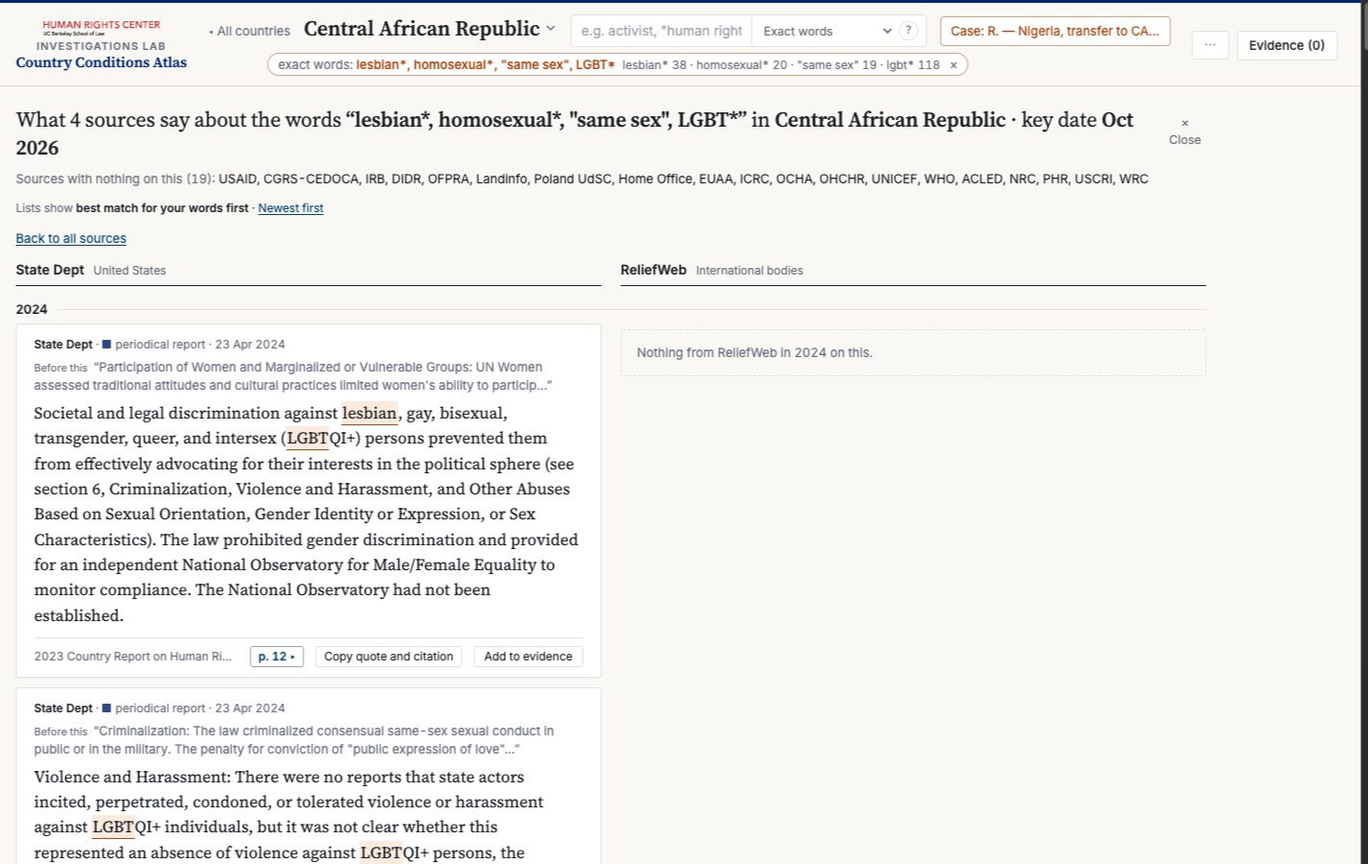
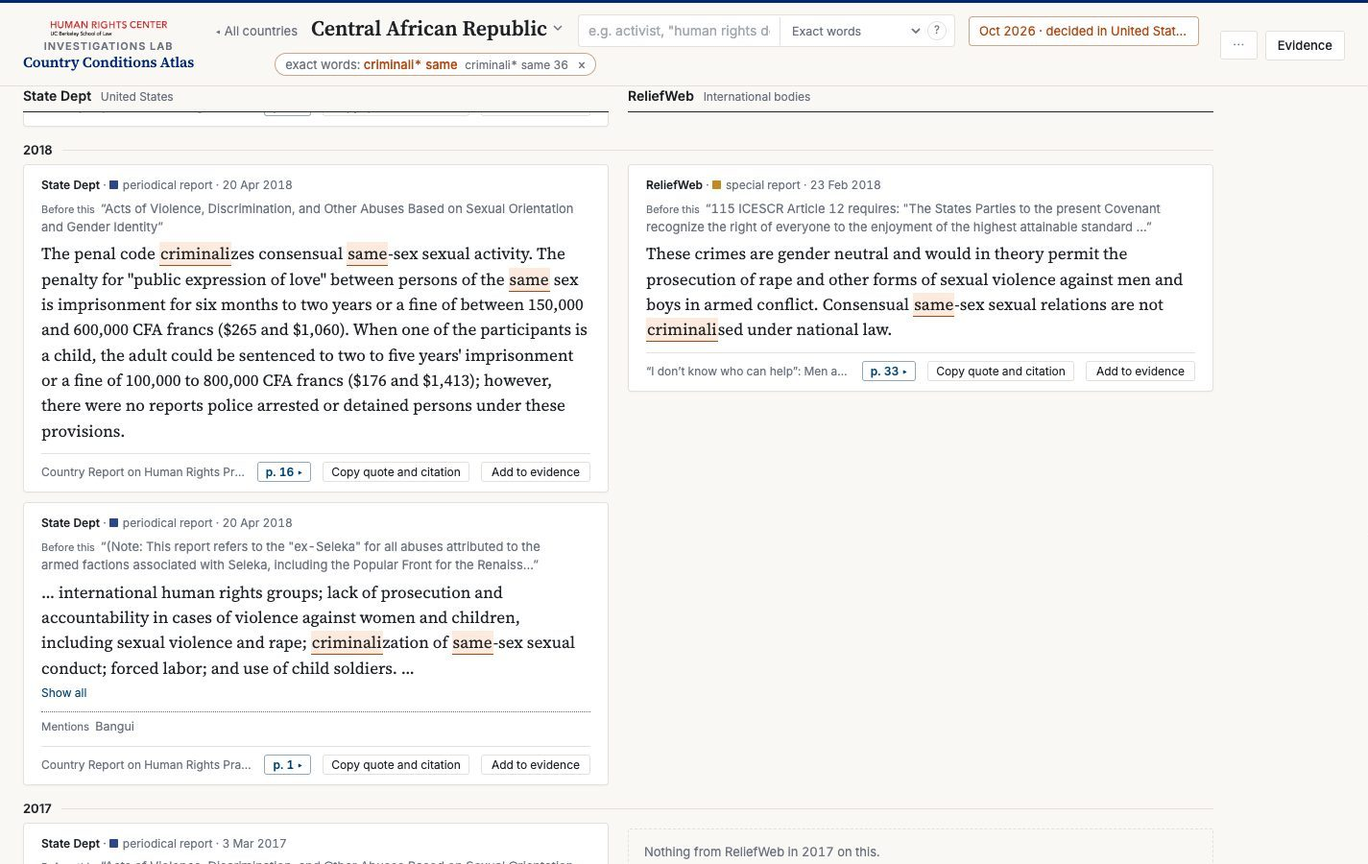
Guide: side-by-side step now shows the 2018 disagreement; text rewritten in Simplified Technical English
Claude-Session: https://claude.ai/code/session_015QqkhL8CB7sa7iWybLvh2n

diff --git a/guide.html b/guide.html
@@ -23,220 +23,225 @@
   </header>
 
   <div class="prose">
-    <p class="lead">This guide follows one case from the first search to a Word file of evidence. The client is made up. The reports are real. Every picture is the atlas as it looked on 18 November 2026.</p>
+    <p class="lead">This guide shows how to use the atlas for one case. The case starts with a search and ends with a Word file of evidence. The client is not a real person. The reports are real. All pictures show the atlas on 18 November 2026.</p>
 
-    <p>Her name is R. She is from Nigeria. She loves a woman. The government plans to send her to the Central African Republic in October 2026, under an agreement with that country. From there she could be sent back to Nigeria. An immigration court in the United States will decide.</p>
-    <p>I am her lawyer. I want to show that the transfer would put her rights in danger. So I need to know three things. How does the Central African Republic treat women who love women, then and now? What else waits there for a woman alone? And what happens to her if she is sent on to Nigeria?</p>
-    <p>The atlas will help me find the reports and quote them. It will not tell me who is right. When two reports disagree, it shows me both. The weighing is mine.</p>
+    <p>The client, R., is a woman from Nigeria. She has a relationship with a woman. The government plans to transfer her to the Central African Republic in October 2026. After the transfer, the Central African Republic can send her to Nigeria. An immigration court in the United States will make the decision.</p>
+    <p>Her lawyer must show that the transfer can put her human rights in danger. The lawyer needs answers to three questions:</p>
+    <ul>
+      <li>How does the Central African Republic treat lesbian women, in the past and now?</li>
+      <li>What other dangers are there for a woman who arrives alone?</li>
+      <li>What can happen to her if she is sent on to Nigeria?</li>
+    </ul>
+    <p>The atlas finds the reports and gives quotations with citations. The atlas does not tell you which report is correct. When two reports do not agree, the atlas shows both reports. You must compare them.</p>
 
     <nav class="guide-toc" aria-label="Steps">
       <ol>
-        <li><a href="#wide">Look at every country at once</a> <span>steps 1 to 5</span></li>
-        <li><a href="#car">Study the country she is sent to</a> <span>steps 6 to 15</span></li>
-        <li><a href="#ng">Study the country she may be sent on to</a> <span>steps 16 to 18</span></li>
-        <li><a href="#out">Take the evidence out</a> <span>steps 19 and 20</span></li>
-        <li><a href="#found">What I found</a></li>
-        <li><a href="#care">What to remember</a></li>
+        <li><a href="#wide">Search all countries</a> <span>steps 1 to 5</span></li>
+        <li><a href="#car">Examine the Central African Republic</a> <span>steps 6 to 15</span></li>
+        <li><a href="#ng">Examine Nigeria</a> <span>steps 16 to 18</span></li>
+        <li><a href="#out">Export the evidence</a> <span>steps 19 and 20</span></li>
+        <li><a href="#found">Results of the example</a></li>
+        <li><a href="#care">Cautions</a></li>
       </ol>
     </nav>
 
-    <h2 id="wide">Look at every country at once</h2>
-    <p>Before I open one country, I look at all of them. I want to know where my client's story has been written about before, and how often.</p>
+    <h2 id="wide">Search all countries</h2>
+    <p>Search all countries before you open one country. This shows which countries have reports about the subject, and how many.</p>
 
     <section class="gstep" id="s1">
-      <h3><span class="n">1</span>Start on the first page</h3>
-      <p>The first page has one search box. It reaches about 83,000 reports on 198 countries, written between 1986 and 2026. I can type words or choose a topic. Or I can click a country on the map.</p>
-      <figure><img src="guide/01-home.jpg" alt="The first page of the atlas, with the search box over a world map." width="1425" height="900" loading="lazy"><figcaption>The search box looks in every country at once.</figcaption></figure>
+      <h3><span class="n">1</span>Open the first page</h3>
+      <p>The first page has one search box. The search box examines approximately 83,000 documents about 198 countries. The documents are from 1986 to 2026. You can search for words or select a topic. You can also click a country on the map.</p>
+      <figure><img src="guide/01-home.jpg" alt="The first page of the atlas, with the search box above a world map." width="1425" height="900" loading="lazy"><figcaption>The search box examines all countries at the same time.</figcaption></figure>
     </section>
 
     <section class="gstep" id="s2">
-      <h3><span class="n">2</span>Search one word everywhere</h3>
-      <p class="try">Type <kbd>lesbian</kbd> and press Look.</p>
-      <p>The map darkens where more documents hold the word. The list below ranks the countries. A strip of bars shows the years the documents came out.</p>
-      <figure><img src="guide/02-lesbian-map.jpg" alt="The world map shaded by how many documents hold the word lesbian." width="1425" height="900" loading="lazy"><figcaption>Point at a country to see its count. Click it to open it with the word already searched.</figcaption></figure>
-      <figure><img src="guide/03-lesbian-list.jpg" alt="The ranked list of countries. Nigeria is first with 122 documents." width="1425" height="900" loading="lazy"><figcaption>Nigeria comes first. It has 122 documents that use the word.</figcaption></figure>
-      <p class="found">No country in the collection has more documents about lesbian women than Nigeria. If R. is sent back there, I will have plenty to read.</p>
-      <p class="aside">A document counts here if it holds the word anywhere. Put a phrase in quotes, like <kbd>"blood feud"</kbd>, and a document counts only where the words stand side by side.</p>
+      <h3><span class="n">2</span>Search for one word in all countries</h3>
+      <p class="try">Type <kbd>lesbian</kbd>. Click Look.</p>
+      <p>The map is darker where more documents contain the word. The list below the map puts the countries in sequence. A small bar chart shows the years of the documents.</p>
+      <figure><img src="guide/02-lesbian-map.jpg" alt="The world map shaded by the number of documents that contain the word lesbian." width="1425" height="900" loading="lazy"><figcaption>Put the pointer on a country to see its count. Click the country to open it with the same search.</figcaption></figure>
+      <figure><img src="guide/03-lesbian-list.jpg" alt="The list of countries. Nigeria is first with 122 documents." width="1425" height="900" loading="lazy"><figcaption>Nigeria is first. It has 122 documents that contain the word.</figcaption></figure>
+      <p class="found">Nigeria has more documents about lesbian women than any other country in the collection. This is important if R. is sent on to Nigeria.</p>
+      <p class="aside">A document is counted if the word is anywhere in it. To find words that are next to each other, put them in quotation marks, for example <kbd>"blood feud"</kbd>.</p>
     </section>
 
     <section class="gstep" id="s3">
-      <h3><span class="n">3</span>Compare shares, not only counts</h3>
+      <h3><span class="n">3</span>Compare percentages</h3>
       <p class="try">Click “share of its documents”.</p>
-      <p>Countries with many documents have more of everything. So I can rank them by the part of their own documents that holds the word. Countries with fewer than 50 documents go to the bottom. One document out of two is not a pattern.</p>
-      <figure><img src="guide/04-share.jpg" alt="The same list ranked by each country's share of its own documents." width="1425" height="900" loading="lazy"><figcaption>The map follows whichever ranking I choose.</figcaption></figure>
+      <p>A country with many documents has more matches for all words. To correct for this, rank the countries by the percentage of their documents that contain the word. Countries with fewer than 50 documents go to the bottom of the list. A small number of documents does not show a pattern.</p>
+      <figure><img src="guide/04-share.jpg" alt="The same list, ranked by the percentage of each country's documents." width="1425" height="900" loading="lazy"><figcaption>The map changes when you change the ranking.</figcaption></figure>
     </section>
 
     <section class="gstep" id="s4">
-      <h3><span class="n">4</span>Search a topic everywhere</h3>
-      <p class="try">Choose “Sexual orientation and gender identity” from the topics. Point at the Central African Republic.</p>
-      <p>A topic gathers passages that the reports themselves filed under a matching heading. It also gathers passages a model filed by their words. Reference lists and tables of contents stay out.</p>
-      <figure><img src="guide/05-topic-map.jpg" alt="The world map for the topic. The Central African Republic is highlighted: 18 of its 771 documents speak to the topic." width="1425" height="900" loading="lazy"><figcaption>Only 18 of the Central African Republic's 771 documents speak to this topic.</figcaption></figure>
-      <p class="found">Very little has been written about gay and lesbian people in the Central African Republic. That silence is worth telling the court about. The reports that do exist say people there hide. I come back to this in step 12.</p>
+      <h3><span class="n">4</span>Search for a topic in all countries</h3>
+      <p class="try">Select “Sexual orientation and gender identity” from the topics. Put the pointer on the Central African Republic.</p>
+      <p>A topic contains the passages that have a related heading in the report. It also contains passages that a model put in the topic because of their words. Reference lists and tables of contents are not included.</p>
+      <figure><img src="guide/05-topic-map.jpg" alt="The world map for the topic. The Central African Republic is highlighted: 18 of its 771 documents discuss the topic." width="1425" height="900" loading="lazy"><figcaption>Only 18 of the 771 documents about the Central African Republic discuss this topic.</figcaption></figure>
+      <p class="found">Few reports discuss gay and lesbian people in the Central African Republic. The lawyer can tell the court about this gap. The available reports say that people hide their sexual orientation. Step 12 shows these reports.</p>
     </section>
 
     <section class="gstep" id="s5">
-      <h3><span class="n">5</span>Search by meaning everywhere</h3>
-      <p class="try">Change “Exact words” to “Similar wording” inside the search box. Type <kbd>lesbian women are beaten by their relatives and the police do not protect them</kbd>.</p>
-      <p>Now the atlas looks for passages that mean what my sentence means. They may use other words, or another language. The first time, my browser downloads a language model of about 135 MB. My sentence never leaves my computer.</p>
-      <figure><img src="guide/06-similar-across.jpg" alt="The closest passages from anywhere: UK Home Office reports on Russia, Egypt, Kenya and Pakistan about police who do not protect gay and lesbian people." width="1425" height="900" loading="lazy"><figcaption>The closest passages come first, from any country. Each one opens on its page.</figcaption></figure>
-      <p class="aside">A machine makes these matches. It can miss things and it can stray. Use it to find a pattern, then go and read.</p>
+      <h3><span class="n">5</span>Search by meaning in all countries</h3>
+      <p class="try">In the search box, change “Exact words” to “Similar wording”. Type <kbd>lesbian women are beaten by their relatives and the police do not protect them</kbd>.</p>
+      <p>The atlas finds passages with a meaning that is near to your sentence. These passages can use different words or a different language. The first time, the browser downloads a language model of approximately 135 MB. Your sentence stays on your computer.</p>
+      <figure><img src="guide/06-similar-across.jpg" alt="The nearest passages from all countries: UK Home Office reports on Russia, Egypt, Kenya and Pakistan about police who do not protect gay and lesbian people." width="1425" height="900" loading="lazy"><figcaption>The nearest passages are first, from all countries. Click a passage to open its page.</figcaption></figure>
+      <p class="aside">A machine finds these matches. It can miss passages, and it can find unrelated passages. Use it to find a pattern. Then read the reports.</p>
     </section>
 
-    <h2 id="car">Study the country she is sent to</h2>
-    <p>Now I open the Central African Republic. I write down the facts of the case. Then I read what each source said, year by year, up to the newest report.</p>
+    <h2 id="car">Examine the Central African Republic</h2>
+    <p>Open the Central African Republic. Record the facts of the case. Then read what each source said, year by year, to the newest report.</p>
 
     <section class="gstep" id="s6">
       <h3><span class="n">6</span>Open the country</h3>
       <p class="try">Click the Central African Republic on the map or in the list.</p>
-      <p>Each row is an institution that wrote about the country. Each mark is a year it published something. The color tells what kind of document it was. The numbers on the right count passages. On the left is a map of the provinces.</p>
-      <figure><img src="guide/07-car-landscape.jpg" alt="The Central African Republic page. Institutions run down the side, years across the top." width="1425" height="900" loading="lazy"><figcaption>The bar at the top holds the way back to all countries, the country's name, the search and the case.</figcaption></figure>
-      <p>Under the grid, the atlas lists the sources that wrote nothing about this country. Silence can matter too.</p>
+      <p>Each row is an institution that wrote about the country. Each mark is a year with a publication. The color shows the type of document. The numbers on the right are counts of passages. The map on the left shows the provinces.</p>
+      <figure><img src="guide/07-car-landscape.jpg" alt="The Central African Republic page. Institutions are in rows and years are in columns." width="1425" height="900" loading="lazy"><figcaption>The bar at the top contains the link to all countries, the country name, the search box and the case.</figcaption></figure>
+      <p>Below the grid, the atlas lists the sources that have no documents about this country. This absence can also be important.</p>
     </section>
 
     <section class="gstep" id="s7">
       <h3><span class="n">7</span>Open a case</h3>
-      <p class="try">Click Evidence. Name a new case. Add a first point in your own words. Then click Case details. Set the key date to <kbd>Oct 2026</kbd> and the deciding country to <kbd>United States</kbd>.</p>
-      <p>The key date is the day that matters. Here it is the day of the transfer. It appears as a line on every timeline. The deciding country puts that country's own institutions at the top of every list.</p>
-      <figure><img src="guide/08-case-panel.jpg" alt="The case panel, with the key date set to October 2026 and the deciding country set to the United States." width="1425" height="420" loading="lazy"><figcaption>The case lives in this browser and nowhere else.</figcaption></figure>
+      <p class="try">Click Evidence. Type a name for the new case. Add a first point in your own words. Click Case details. Set the key date to <kbd>Oct 2026</kbd>. Set the deciding country to <kbd>United States</kbd>.</p>
+      <p>The key date is the date of the transfer. A line on each timeline shows this date. The atlas puts the institutions of the deciding country first in each list.</p>
+      <figure><img src="guide/08-case-panel.jpg" alt="The case panel, with the key date set to October 2026 and the deciding country set to the United States." width="1425" height="420" loading="lazy"><figcaption>The atlas keeps the case only in this browser.</figcaption></figure>
     </section>
 
     <section class="gstep" id="s8">
-      <h3><span class="n">8</span>See the subjects</h3>
+      <h3><span class="n">8</span>Show the topics</h3>
       <p class="try">Click Topics above the grid.</p>
-      <p>Now the rows are subjects. There are rows for security, health, women, prisons and more. The key date is the orange line on the right.</p>
-      <figure><img src="guide/09-car-topics.jpg" alt="The Central African Republic by topic, with a count of passages for each." width="1425" height="900" loading="lazy"><figcaption>Women and violence has 2,970 passages. Sexual orientation has 38.</figcaption></figure>
+      <p>The rows are now subjects, for example security, health, women and prisons. The orange line on the right shows the key date.</p>
+      <figure><img src="guide/09-car-topics.jpg" alt="The Central African Republic by topic, with a count of passages for each topic." width="1425" height="900" loading="lazy"><figcaption>Women and violence has 2,970 passages. Sexual orientation has 38 passages.</figcaption></figure>
     </section>
 
     <section class="gstep" id="s9">
-      <h3><span class="n">9</span>Ask what each source says</h3>
-      <p class="try">Choose the topic “Sexual orientation and gender identity”. Click Compare sources.</p>
-      <p>For each source the atlas shows two passages. One is nearest my key date. The other is its latest. The clearest passages come first. Reports about ten or more countries stay hidden unless I tick the box. That keeps worldwide reports from drowning a small country.</p>
-      <figure><img src="guide/10-car-sogi-compare.jpg" alt="Four sources on the topic, with the State Department first." width="1425" height="900" loading="lazy"><figcaption>Four sources wrote about this. Nineteen did not, and the atlas names them.</figcaption></figure>
+      <h3><span class="n">9</span>Compare the sources</h3>
+      <p class="try">Select the topic “Sexual orientation and gender identity”. Click Compare sources.</p>
+      <p>For each source, the atlas shows two passages. One passage is nearest to the key date. The other passage is the newest. The passages that are most about the topic are first. Reports about ten or more countries are hidden. To show them, select the checkbox. This prevents worldwide reports from hiding the reports about one small country.</p>
+      <figure><img src="guide/10-car-sogi-compare.jpg" alt="Four sources on the topic. The State Department is first." width="1425" height="900" loading="lazy"><figcaption>Four sources wrote about this topic. The atlas also names the nineteen sources that did not.</figcaption></figure>
     </section>
 
     <section class="gstep" id="s10">
-      <h3><span class="n">10</span>Search exact words</h3>
-      <p class="try">Type <kbd>lesbian*, homosexual*, "same sex", LGBT*</kbd> and press Enter.</p>
-      <p>A star catches the endings of a word. LGBT* finds LGBTI and LGBTQI+. Quotes keep a phrase together. A comma means either one. Under the bar, the atlas counts what each word found. I can see which words do the work.</p>
-      <figure><img src="guide/11-car-words.jpg" alt="153 passages in 34 documents from 4 sources." width="1425" height="900" loading="lazy"><figcaption>The State Department wrote about this every year from 2010 to 2024.</figcaption></figure>
+      <h3><span class="n">10</span>Search for exact words</h3>
+      <p class="try">Type <kbd>lesbian*, homosexual*, "same sex", LGBT*</kbd>. Push Enter.</p>
+      <p>A star finds all endings of a word. For example, LGBT* finds LGBTI and LGBTQI+. Quotation marks keep a phrase together. A comma between words means “or”. Below the bar, the atlas shows the count for each word. Use these counts to see which words find the most passages.</p>
+      <figure><img src="guide/11-car-words.jpg" alt="153 passages in 34 documents from 4 sources." width="1425" height="900" loading="lazy"><figcaption>The State Department wrote about this subject each year from 2010 to 2024.</figcaption></figure>
     </section>
 
     <section class="gstep" id="s11">
-      <h3><span class="n">11</span>Put two sources side by side</h3>
-      <p class="try">In Compare sources, tick “Side by side” for two institutions.</p>
-      <p>The two sources line up year by year. Where one is silent, the atlas says so. This is how I find where sources agree and where they do not.</p>
-      <figure><img src="guide/12-car-side-by-side.jpg" alt="The State Department and ReliefWeb side by side, year by year." width="1425" height="900" loading="lazy"><figcaption>The State Department is on the left and ReliefWeb on the right.</figcaption></figure>
+      <h3><span class="n">11</span>Compare two sources side by side</h3>
+      <p class="try">Type <kbd>criminali* same</kbd>. Push Enter. Click Compare sources. Select “Side by side” for the State Department and for ReliefWeb. Go to the year 2018.</p>
+      <p>The atlas shows the two sources year by year. When a source has no passage in a year, the atlas says so. Use this view to find where the sources agree and where they do not agree.</p>
+      <figure><img src="guide/12-car-side-by-side.jpg" alt="The year 2018. On the left, the State Department says that the penal code criminalizes consensual same-sex activity. On the right, a ReliefWeb report says that consensual same-sex relations are not criminalised." width="1425" height="900" loading="lazy"><figcaption>In 2018, the State Department (left) and a report on ReliefWeb (right) give different information about the law.</figcaption></figure>
       <div class="found">
-        <p>Here the sources disagree. A 2018 report on ReliefWeb says sex between people of the same sex is not a crime in the Central African Republic. The State Department says every year that the penal code punishes “public expression of love” between people of the same sex.</p>
-        <p>The State Department's 2024 report explains the gap. The law punishes such conduct in public. It does not strictly punish it in private. I will say so in my brief.</p>
-        <p class="cite">All Survivors Project, published on ReliefWeb, 23 February 2018, page 33. US Department of State, 2023 Country Report on Human Rights Practices: Central African Republic, 23 April 2024, page 17.</p>
+        <p>The two sources do not agree. A 2018 report on ReliefWeb says that consensual same-sex relations are not a crime. Each year, the State Department says that the penal code punishes “public expression of love” between persons of the same sex.</p>
+        <p>The State Department report of 2024 gives more detail. The law punishes same-sex conduct in public and in the military. The report does not say that the law punishes it in private. The lawyer must tell the court about the two statements.</p>
+        <p class="cite">All Survivors Project, published on ReliefWeb, 23 February 2018, page 33. US Department of State, Country Report on Human Rights Practices 2017: Central African Republic, 20 April 2018, page 16. US Department of State, 2023 Country Report on Human Rights Practices: Central African Republic, 23 April 2024, page 17.</p>
       </div>
     </section>
 
     <section class="gstep" id="s12">
-      <h3><span class="n">12</span>Read the page itself</h3>
+      <h3><span class="n">12</span>Read the original page</h3>
       <p class="try">Click the page number on a passage.</p>
-      <p>The report opens at that page, just as it was printed. A box is drawn around the passage. The Match buttons step through every passage that holds my words. On the left are earlier editions of the same report, one click each. On the right are two buttons I will use often. One adds the passage to my evidence. The other copies it with its citation.</p>
-      <figure><img src="guide/13-viewer.jpg" alt="The State Department report of April 2024 open at page 17, with the passage outlined." width="1425" height="900" loading="lazy"><figcaption>The passage keeps its page, its words and its citation.</figcaption></figure>
+      <p>The report opens at that page. The page looks the same as the printed report. A box shows the passage. Use the Match buttons to go to each passage that contains your words. The left side shows the earlier editions of the same report. On the right, one button adds the passage to your evidence. Another button copies the passage with its citation.</p>
+      <figure><img src="guide/13-viewer.jpg" alt="The State Department report of April 2024, open at page 17, with a box around the passage." width="1425" height="900" loading="lazy"><figcaption>The passage keeps its page, its words and its citation.</figcaption></figure>
       <div class="found">
-        <p>The newest State Department report says this about the country today:</p>
+        <p>The newest State Department report gives this information about the country now:</p>
         <blockquote>“…maintaining a same-sex relationship was extraordinarily dangerous.”</blockquote>
-        <p>The same report finds no law that protects gay and lesbian people from discrimination. The constitution bans same-sex marriage. There were no known groups left to defend them.</p>
+        <p>The same report says that no law protects gay and lesbian people from discrimination. The constitution prohibits same-sex marriage. There were no known organizations that defend their rights.</p>
         <p class="cite">US Department of State, 2023 Country Report on Human Rights Practices: Central African Republic, 23 April 2024, pages 17 and 18.</p>
       </div>
       <div class="found">
-        <p>Then I walk back through the earlier editions. The ban on “public expression of love” between people of the same sex is in every report from 2011 on. The punishment is six months to two years in prison. Since 2012 the reports have called the hostility of society “entrenched”.</p>
+        <p>The earlier editions give the history. Each report from 2011 to 2024 says that the law punishes “public expression of love” between persons of the same sex. The penalty is six months to two years in prison. Since 2012, the reports say that discrimination by society is “entrenched”.</p>
         <p class="cite">US Department of State, Country Reports on Human Rights Practices: Central African Republic, editions from 2011 to 2024.</p>
       </div>
     </section>
 
     <section class="gstep" id="s13">
       <h3><span class="n">13</span>Read reports in other languages</h3>
-      <p>Many reports are not in English. A machine translated them, and the atlas searches both texts. When a passage is long, its card shows the part that matches, with dots on either side. “Show all” shows the rest. A translation always says it is one. The original is one click away.</p>
-      <figure><img src="guide/14-machine-translation.jpg" alt="UNHCR passages from 2023 and 2022. The 2022 report is in French." width="1425" height="900" loading="lazy"><figcaption>UNHCR wrote the 2022 report in French. Its card offers the English.</figcaption></figure>
+      <p>Many reports are not in English. A machine translated these reports. The atlas searches the original text and the translation. If a passage is long, its card shows only the part that matches, with dots before and after it. Click “Show all” to see the full passage. The atlas always identifies a translation. Click once to see the original text.</p>
+      <figure><img src="guide/14-machine-translation.jpg" alt="UNHCR passages from 2023 and 2022. The 2022 report is in French." width="1425" height="900" loading="lazy"><figcaption>UNHCR wrote the 2022 report in French. Its card shows the English translation.</figcaption></figure>
     </section>
 
     <section class="gstep" id="s14">
-      <h3><span class="n">14</span>Search by meaning inside the country</h3>
-      <p class="try">Switch to Similar wording. Type <kbd>women and girls raped by members of armed groups</kbd>.</p>
-      <p>R. would arrive alone, in a country at war. I want to know what happens there to women. Similar wording finds the passages however each report put it.</p>
-      <figure><img src="guide/15-car-similar-wording.jpg" alt="Five sources on violence against women by armed groups." width="1425" height="900" loading="lazy"><figcaption>In 2018 the State Department wrote that armed groups “continued to rape girls and women with impunity.”</figcaption></figure>
+      <h3><span class="n">14</span>Search by meaning in one country</h3>
+      <p class="try">Select Similar wording. Type <kbd>women and girls raped by members of armed groups</kbd>.</p>
+      <p>R. will arrive alone in a country with armed conflict. The lawyer must know the dangers for women there. Similar wording finds the related passages, also when the reports use different words.</p>
+      <figure><img src="guide/15-car-similar-wording.jpg" alt="Five sources on violence against women by armed groups." width="1425" height="900" loading="lazy"><figcaption>In 2018, the State Department wrote that armed groups “continued to rape girls and women with impunity.”</figcaption></figure>
     </section>
 
     <section class="gstep" id="s15">
       <h3><span class="n">15</span>Find the newest reports</h3>
-      <p>The collection runs into the autumn of 2026. Many of the newest reports on the Central African Republic are in French. They come from UN agencies and European asylum offices. When I open one, the French page shows with the passage outlined. The English sits beside it.</p>
-      <figure><img src="guide/15b-recent-french.jpg" alt="A French report from January 2026 by the Belgian asylum office, open at page 26, with the English translation beside it." width="1425" height="900" loading="lazy"><figcaption>The Belgian asylum office wrote this in January 2026.</figcaption></figure>
+      <p>The collection contains reports to autumn 2026. Many of the newest reports about the Central African Republic are in French. UN agencies and European asylum offices wrote them. When you open one of these reports, the atlas shows the French page with a box around the passage. The English translation is next to it.</p>
+      <figure><img src="guide/15b-recent-french.jpg" alt="A French report from January 2026 by the Belgian asylum office, open at page 26, with the English translation next to it." width="1425" height="900" loading="lazy"><figcaption>The Belgian asylum office (CGRS-CEDOCA) wrote this report in January 2026.</figcaption></figure>
       <div class="found">
-        <p>The report cites the United Nations. Two people suffer violence because of their gender every hour. Between January and September 2024, nearly 16,200 cases were recorded. A third of them were rapes. Most of the victims were girls and women.</p>
-        <p class="cite">CGRS-CEDOCA, République centrafricaine (RCA): Situation sécuritaire à Bangui, 21 January 2026, page 26. Read through the machine translation. Check the French before you quote it.</p>
+        <p>The report gives figures from the United Nations. Each hour, two persons are victims of violence because of their gender. From January to September 2024, approximately 16,200 cases were recorded. One third of the cases were rapes. Most victims were girls and women.</p>
+        <p class="cite">CGRS-CEDOCA, République centrafricaine (RCA): Situation sécuritaire à Bangui, 21 January 2026, page 26. This text is from the machine translation. Compare it with the French text before you quote it.</p>
       </div>
     </section>
 
-    <h2 id="ng">Study the country she may be sent on to</h2>
-    <p>The danger may not end in the Central African Republic. If that country sends R. back to Nigeria, I need to know what waits for her there.</p>
+    <h2 id="ng">Examine Nigeria</h2>
+    <p>The Central African Republic can send R. to Nigeria. Thus the lawyer must also examine the conditions in Nigeria.</p>
 
     <section class="gstep" id="s16">
-      <h3><span class="n">16</span>Switch country and keep the case</h3>
-      <p class="try">Click the country's name in the bar and choose Nigeria. Search <kbd>"same sex marriage"</kbd>.</p>
-      <p>The case comes along. So do the key date and the deciding country.</p>
-      <figure><img src="guide/16-nigeria-words.jpg" alt="Nigeria, with 264 passages in 74 documents from 11 sources." width="1425" height="900" loading="lazy"><figcaption>Eleven sources wrote about Nigeria's 2014 law against same-sex marriage.</figcaption></figure>
+      <h3><span class="n">16</span>Change the country and keep the case</h3>
+      <p class="try">Click the country name in the bar. Select Nigeria. Search for <kbd>"same sex marriage"</kbd>.</p>
+      <p>The case, the key date and the deciding country do not change.</p>
+      <figure><img src="guide/16-nigeria-words.jpg" alt="Nigeria, with 264 passages in 74 documents from 11 sources." width="1425" height="900" loading="lazy"><figcaption>Eleven sources wrote about the Nigerian law of 2014 against same-sex marriage.</figcaption></figure>
     </section>
 
     <section class="gstep" id="s17">
-      <h3><span class="n">17</span>Read the latest guidance</h3>
-      <p class="try">Search <kbd>lesbian*, women</kbd>. Open the UK Home Office note of June 2025 at page 4.</p>
-      <figure><img src="guide/17-nigeria-viewer.jpg" alt="The UK Home Office note on Nigeria, June 2025, open at page 4, with the passage on sharia law outlined." width="1425" height="900" loading="lazy"><figcaption>Its earlier editions go back to 2015.</figcaption></figure>
+      <h3><span class="n">17</span>Read the newest guidance</h3>
+      <p class="try">Search for <kbd>lesbian*, women</kbd>. Open the UK Home Office note of June 2025 at page 4.</p>
+      <figure><img src="guide/17-nigeria-viewer.jpg" alt="The UK Home Office note on Nigeria, June 2025, open at page 4, with a box around the passage on sharia law." width="1425" height="900" loading="lazy"><figcaption>The earlier editions of this note start in 2015.</figcaption></figure>
       <div class="found">
-        <p>Nigeria's federal law punishes sex between men. In the twelve northern states, sharia law applies to Muslims, and it punishes sex between women as well.</p>
+        <p>Nigerian federal law punishes sex between men. In the twelve northern states, sharia law applies to Muslims. Sharia law also punishes sex between women.</p>
         <blockquote>“Penalties for ‘lesbianism’ range from death to flogging and imprisonment.”</blockquote>
         <p class="cite">UK Home Office, Country Policy and Information Note, Nigeria: Sexual orientation, gender identity and expression, and sex characteristics, version 4.0, June 2025, page 4.</p>
       </div>
     </section>
 
     <section class="gstep" id="s18">
-      <h3><span class="n">18</span>Narrow the documents</h3>
+      <h3><span class="n">18</span>Limit the documents</h3>
       <p class="try">Click Show filters.</p>
-      <p>I can keep only some languages, some kinds of institution, or institutions from some countries. I can keep only the newest edition of each report. I can hide reports about ten or more countries. Each choice shows how many documents it holds before I tick it.</p>
-      <figure><img src="guide/18-filters.jpg" alt="The filters for Nigeria: language, kind of institution and where the institution is based." width="1425" height="900" loading="lazy"><figcaption>The counter always says how many filters are on.</figcaption></figure>
+      <p>You can show only some languages, some types of institution, or institutions from some countries. You can show only the newest edition of each report. You can hide reports about ten or more countries. Each option shows its number of documents before you select it.</p>
+      <figure><img src="guide/18-filters.jpg" alt="The filters for Nigeria: language, type of institution and country of the institution." width="1425" height="900" loading="lazy"><figcaption>The counter shows how many filters are on.</figcaption></figure>
     </section>
 
-    <h2 id="out">Take the evidence out</h2>
-    <p>Everything I saved waits in the Evidence drawer. It sits under the points I wrote.</p>
+    <h2 id="out">Export the evidence</h2>
+    <p>The Evidence drawer contains all the passages that you saved. The passages are below the points that you wrote.</p>
 
     <section class="gstep" id="s19">
       <h3><span class="n">19</span>Open the evidence</h3>
       <p class="try">Click Evidence.</p>
-      <p>Every passage is kept word for word. Its citation is written the way my court wants it. I can add a note, move a passage to another point, or open its page again. Nothing leaves this browser.</p>
-      <figure><img src="guide/19-evidence.jpg" alt="The evidence drawer with the case name, the court, the points and a passage with its citation." width="1425" height="900" loading="lazy"><figcaption>The points and notes are mine. The passages are theirs.</figcaption></figure>
+      <p>The atlas keeps the exact words of each passage. It writes each citation in the format of your court. You can add a note, move a passage to a different point, or open its page again. The evidence stays in this browser.</p>
+      <figure><img src="guide/19-evidence.jpg" alt="The evidence drawer with the case name, the court, the points and a passage with its citation." width="1425" height="900" loading="lazy"><figcaption>You write the points and the notes. The passages are the words of the sources.</figcaption></figure>
     </section>
 
     <section class="gstep" id="s20">
-      <h3><span class="n">20</span>Make the Word file</h3>
-      <p>At the bottom of the drawer I can make a Word file to write from. I can copy a list of sources into a document I already have. I can save a backup and give it to a colleague. I can print.</p>
-      <figure><img src="guide/20-exports.jpg" alt="The bottom of the evidence drawer, with the Nigeria point, its passage and the buttons to take the evidence out." width="1425" height="900" loading="lazy"><figcaption>In the Word file, my points become headings. The quotations sit under them, and the sources follow in the same order.</figcaption></figure>
+      <h3><span class="n">20</span>Make a Word file</h3>
+      <p>At the bottom of the drawer, you can make a Word file. You can copy a list of sources into a different document. You can save a backup file and give it to a colleague. You can also print the evidence.</p>
+      <figure><img src="guide/20-exports.jpg" alt="The bottom of the evidence drawer, with the Nigeria point, its passage and the export buttons." width="1425" height="900" loading="lazy"><figcaption>In the Word file, each point is a heading. The quotations are below the headings. The list of sources is in the same sequence.</figcaption></figure>
     </section>
 
-    <h2 id="found">What I found</h2>
+    <h2 id="found">Results of the example</h2>
     <div class="gtable">
       <table>
-        <thead><tr><th>I asked</th><th>The reports say</th><th>Who said it, and when</th></tr></thead>
+        <thead><tr><th>Question</th><th>What the reports say</th><th>Source and date</th></tr></thead>
         <tbody>
-          <tr><td>Is it a crime to love a woman in the Central African Republic?</td><td>The law punishes it in public with six months to two years in prison. It does not strictly punish it in private. One 2018 report says it is no crime at all.</td><td>US State Department, 2011 to 2024. All Survivors Project on ReliefWeb, 2018.</td></tr>
-          <tr><td>How would people there treat her?</td><td>The hostility is “entrenched”. A same-sex relationship is “extraordinarily dangerous”. No law protects her and no group defends her.</td><td>US State Department, April 2024 and earlier.</td></tr>
-          <tr><td>Why are there so few reports of abuse?</td><td>The reports say people may be hiding who they are. War also hides the causes of violence.</td><td>US State Department, 2023 and 2024. ACCORD, December 2018.</td></tr>
-          <tr><td>What waits there for a woman alone?</td><td>Armed groups rape women and girls and go unpunished. Nearly 16,200 cases of gender violence were recorded in nine months of 2024.</td><td>US State Department, 2018. Belgian asylum office, January 2026.</td></tr>
-          <tr><td>What if she is sent back to Nigeria?</td><td>Sharia law in the twelve northern states punishes sex between women, up to death. Federal law bans same-sex marriage and gay groups.</td><td>UK Home Office, June 2025.</td></tr>
+          <tr><td>Is a same-sex relationship a crime in the Central African Republic?</td><td>The law punishes it in public with six months to two years in prison. The reports do not say that the law punishes it in private. One 2018 report says that it is not a crime.</td><td>US State Department, 2011 to 2024. All Survivors Project on ReliefWeb, 2018.</td></tr>
+          <tr><td>How does society treat a lesbian woman?</td><td>Discrimination is “entrenched”. A same-sex relationship is “extraordinarily dangerous”. No law protects her. No known organization defends her rights.</td><td>US State Department, April 2024 and earlier.</td></tr>
+          <tr><td>Why are there few reports of abuse?</td><td>The reports say that people do not identify openly. In the armed conflict, the causes of violence are also difficult to identify.</td><td>US State Department, 2023 and 2024. ACCORD, December 2018.</td></tr>
+          <tr><td>What dangers are there for a woman alone?</td><td>Armed groups rape women and girls without punishment. In nine months of 2024, approximately 16,200 cases of gender-based violence were recorded.</td><td>US State Department, 2018. Belgian asylum office, January 2026.</td></tr>
+          <tr><td>What can happen if she is sent on to Nigeria?</td><td>In the twelve northern states, sharia law punishes sex between women. The maximum penalty is death. Federal law prohibits same-sex marriage and gay organizations.</td><td>UK Home Office, June 2025.</td></tr>
         </tbody>
       </table>
     </div>
 
-    <h2 id="care">What to remember</h2>
-    <p>Quote from the printed page, not from a card. Open the page every time.</p>
-    <p>A machine made the translations. A machine made the topics and the similar wording, too. All of them can be wrong. Exact words are exact.</p>
-    <p>When a source says nothing, it may not have looked. Silence is not safety.</p>
-    <p>A report about a whole region is filed under every country it names. Make sure your passage is about your country.</p>
-    <p>The atlas holds a selection of ecoi.net, not all of it. When the stakes are high, look further.</p>
+    <h2 id="care">Cautions</h2>
+    <p>Quote from the original page, not from a card. Always open the page.</p>
+    <p>A machine made the translations, the topics and the similar-wording matches. These can be incorrect. Exact-word searches are exact.</p>
+    <p>If a source has no information on a subject, possibly the source did not examine it. An absence of reports does not show that a person is safe.</p>
+    <p>The atlas files a report about a region under each country that the report names. Make sure that your passage is about your country.</p>
+    <p>The atlas contains a selection of the ecoi.net documents, not all of them. For important cases, also search other sources.</p>
   </div>
   <footer class="wfoot"><a href="./">Open the atlas</a> · <a href="about.html">About the atlas</a> · Investigations Lab · Documents collected by ecoi.net</footer>
 </article>
